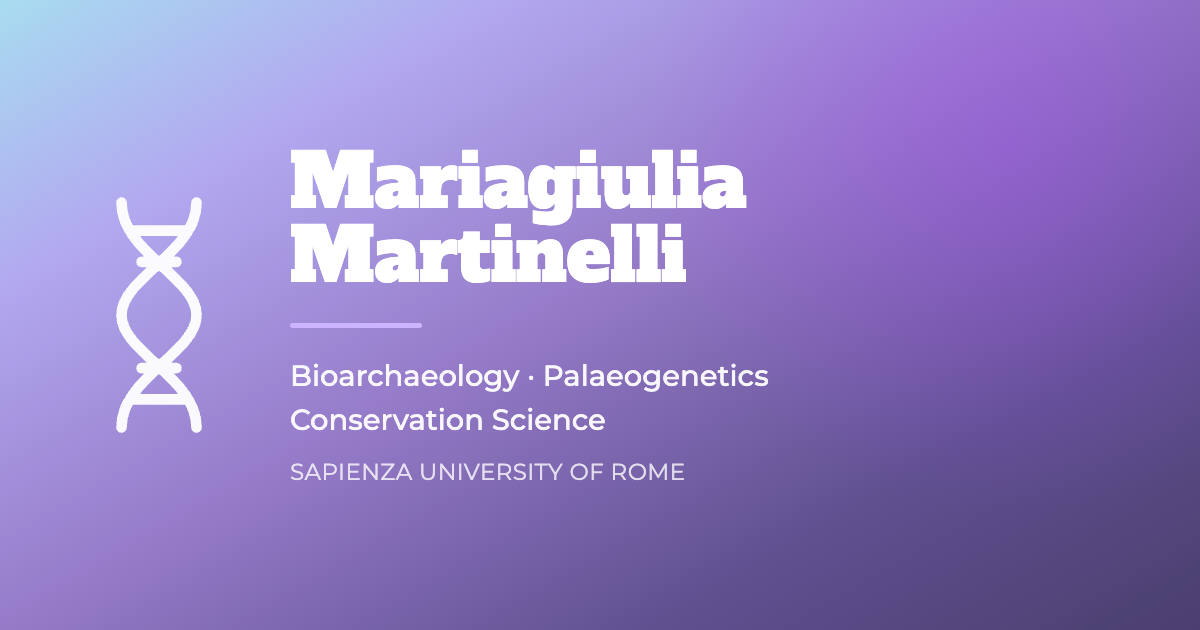
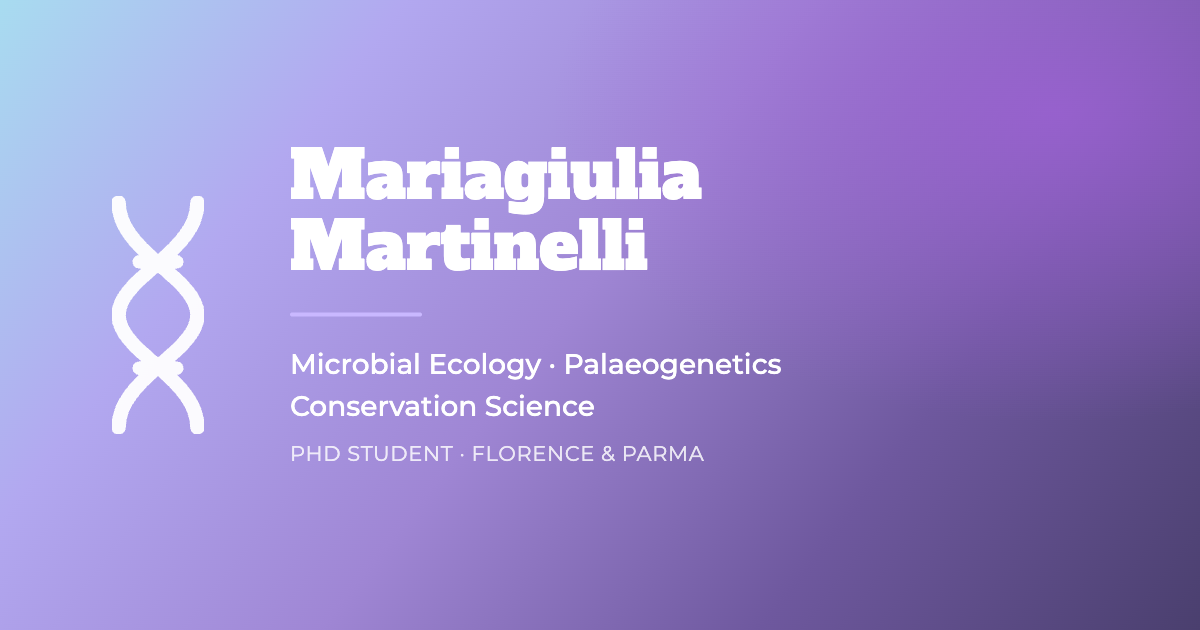
Lead the tagline with microbial ecology
Footer, share-image alt text, web manifest and the share image itself now
read Microbial Ecology · Palaeogenetics · Conservation Science; the image
also drops Sapienza for the PhD at Florence and Parma.

Changed region(s): [[0.0, 0.3016, 0.6475, 1.0], [0.2158, 0.2111, 0.6475, 0.4524], [0.1542, 0.4524, 0.185, 0.5429]]

diff --git a/education.html b/education.html
@@ -22,12 +22,12 @@
 <meta property="og:image" content="https://mariagiuliamartinelli.github.io/og-image.png">
 <meta property="og:image:width" content="1200">
 <meta property="og:image:height" content="630">
-<meta property="og:image:alt" content="Mariagiulia Martinelli — bioarchaeology, palaeogenetics and conservation science">
+<meta property="og:image:alt" content="Mariagiulia Martinelli — microbial ecology, palaeogenetics and conservation science">
 <meta name="twitter:card" content="summary_large_image">
 <meta name="twitter:title" content="Education · Mariagiulia Martinelli">
 <meta name="twitter:description" content="Education of Mariagiulia Martinelli: PhD at the Universities of Florence and Parma, LM-11 and L-43 degrees at Sapienza, Erasmus+ at Stockholm University, conferences and workshops.">
 <meta name="twitter:image" content="https://mariagiuliamartinelli.github.io/og-image.png">
-<link rel="stylesheet" href="css/style.css?v=37">
+<link rel="stylesheet" href="css/style.css?v=38">
 </head>
 <body class="subpage">
 
@@ -190,7 +190,7 @@
           <svg class="footer-mark" aria-hidden="true"><use href="#helix"/></svg>
           <span>Mariagiulia<br>Martinelli</span>
         </span>
-        <p class="footer-sub" data-i18n-html="footer.sub">Bioarchaeology · Palaeogenetics<br>Conservation Science<br>PhD student, Universities of Florence &amp; Parma</p>
+        <p class="footer-sub" data-i18n-html="footer.sub">Microbial Ecology · Palaeogenetics<br>Conservation Science<br>PhD student, Universities of Florence &amp; Parma</p>
       </div>
       <div>
         <h3 class="footer-title" data-i18n="footer.title">Need to reach me?</h3>
@@ -210,10 +210,10 @@
   </div>
 </footer>
 
-<script src="js/i18n.js?v=37"></script>
+<script src="js/i18n.js?v=38"></script>
 <script src="https://cdnjs.cloudflare.com/ajax/libs/gsap/3.12.5/gsap.min.js"></script>
 <script src="https://cdnjs.cloudflare.com/ajax/libs/gsap/3.12.5/ScrollTrigger.min.js"></script>
 <script src="https://cdnjs.cloudflare.com/ajax/libs/gsap/3.12.5/ScrollToPlugin.min.js"></script>
-<script src="js/main.js?v=37"></script>
+<script src="js/main.js?v=38"></script>
 </body>
 </html>

diff --git a/index.html b/index.html
@@ -22,12 +22,12 @@
 <meta property="og:image" content="https://mariagiuliamartinelli.github.io/og-image.png">
 <meta property="og:image:width" content="1200">
 <meta property="og:image:height" content="630">
-<meta property="og:image:alt" content="Mariagiulia Martinelli — bioarchaeology, palaeogenetics and conservation science">
+<meta property="og:image:alt" content="Mariagiulia Martinelli — microbial ecology, palaeogenetics and conservation science">
 <meta name="twitter:card" content="summary_large_image">
 <meta name="twitter:title" content="Mariagiulia Martinelli · From Ancient Remains to Alpine Soils">
 <meta name="twitter:description" content="Mariagiulia Martinelli, PhD student at the Universities of Florence and Parma: microorganisms of alpine plants and soils, palaeogenetics and conservation science.">
 <meta name="twitter:image" content="https://mariagiuliamartinelli.github.io/og-image.png">
-<link rel="stylesheet" href="css/style.css?v=37">
+<link rel="stylesheet" href="css/style.css?v=38">
 </head>
 <body>
 
@@ -198,7 +198,7 @@
           <svg class="footer-mark" aria-hidden="true"><use href="#helix"/></svg>
           <span>Mariagiulia<br>Martinelli</span>
         </span>
-        <p class="footer-sub" data-i18n-html="footer.sub">Bioarchaeology · Palaeogenetics<br>Conservation Science<br>PhD student, Universities of Florence &amp; Parma</p>
+        <p class="footer-sub" data-i18n-html="footer.sub">Microbial Ecology · Palaeogenetics<br>Conservation Science<br>PhD student, Universities of Florence &amp; Parma</p>
       </div>
       <div>
         <h3 class="footer-title" data-i18n="footer.title">Need to reach me?</h3>
@@ -218,10 +218,10 @@
   </div>
 </footer>
 
-<script src="js/i18n.js?v=37"></script>
+<script src="js/i18n.js?v=38"></script>
 <script src="https://cdnjs.cloudflare.com/ajax/libs/gsap/3.12.5/gsap.min.js"></script>
 <script src="https://cdnjs.cloudflare.com/ajax/libs/gsap/3.12.5/ScrollTrigger.min.js"></script>
 <script src="https://cdnjs.cloudflare.com/ajax/libs/gsap/3.12.5/ScrollToPlugin.min.js"></script>
-<script src="js/main.js?v=37"></script>
+<script src="js/main.js?v=38"></script>
 </body>
 </html>

diff --git a/research.html b/research.html
@@ -22,12 +22,12 @@
 <meta property="og:image" content="https://mariagiuliamartinelli.github.io/og-image.png">
 <meta property="og:image:width" content="1200">
 <meta property="og:image:height" content="630">
-<meta property="og:image:alt" content="Mariagiulia Martinelli — bioarchaeology, palaeogenetics and conservation science">
+<meta property="og:image:alt" content="Mariagiulia Martinelli — microbial ecology, palaeogenetics and conservation science">
 <meta name="twitter:card" content="summary_large_image">
 <meta name="twitter:title" content="Research Experience · Mariagiulia Martinelli">
 <meta name="twitter:description" content="Research placements of Mariagiulia Martinelli: Centre for Palaeogenetics, Tusculum, ENEA Casaccia and Sapienza laboratories.">
 <meta name="twitter:image" content="https://mariagiuliamartinelli.github.io/og-image.png">
-<link rel="stylesheet" href="css/style.css?v=37">
+<link rel="stylesheet" href="css/style.css?v=38">
 </head>
 <body class="subpage">
 
@@ -182,7 +182,7 @@
           <svg class="footer-mark" aria-hidden="true"><use href="#helix"/></svg>
           <span>Mariagiulia<br>Martinelli</span>
         </span>
-        <p class="footer-sub" data-i18n-html="footer.sub">Bioarchaeology · Palaeogenetics<br>Conservation Science<br>PhD student, Universities of Florence &amp; Parma</p>
+        <p class="footer-sub" data-i18n-html="footer.sub">Microbial Ecology · Palaeogenetics<br>Conservation Science<br>PhD student, Universities of Florence &amp; Parma</p>
       </div>
       <div>
         <h3 class="footer-title" data-i18n="footer.title">Need to reach me?</h3>
@@ -202,10 +202,10 @@
   </div>
 </footer>
 
-<script src="js/i18n.js?v=37"></script>
+<script src="js/i18n.js?v=38"></script>
 <script src="https://cdnjs.cloudflare.com/ajax/libs/gsap/3.12.5/gsap.min.js"></script>
 <script src="https://cdnjs.cloudflare.com/ajax/libs/gsap/3.12.5/ScrollTrigger.min.js"></script>
 <script src="https://cdnjs.cloudflare.com/ajax/libs/gsap/3.12.5/ScrollToPlugin.min.js"></script>
-<script src="js/main.js?v=37"></script>
+<script src="js/main.js?v=38"></script>
 </body>
 </html>

diff --git a/projects.html b/projects.html
@@ -22,12 +22,12 @@
 <meta property="og:image" content="https://mariagiuliamartinelli.github.io/og-image.png">
 <meta property="og:image:width" content="1200">
 <meta property="og:image:height" content="630">
-<meta property="og:image:alt" content="Mariagiulia Martinelli — bioarchaeology, palaeogenetics and conservation science">
+<meta property="og:image:alt" content="Mariagiulia Martinelli — microbial ecology, palaeogenetics and conservation science">
 <meta name="twitter:card" content="summary_large_image">
 <meta name="twitter:title" content="Open Source · Mariagiulia Martinelli">
 <meta name="twitter:description" content="Open source pipelines by Mariagiulia Martinelli: Etruscan-Analysis, systematic review framework, kraken2 comparison and more.">
 <meta name="twitter:image" content="https://mariagiuliamartinelli.github.io/og-image.png">
-<link rel="stylesheet" href="css/style.css?v=37">
+<link rel="stylesheet" href="css/style.css?v=38">
 </head>
 <body class="subpage">
 
@@ -150,7 +150,7 @@
           <svg class="footer-mark" aria-hidden="true"><use href="#helix"/></svg>
           <span>Mariagiulia<br>Martinelli</span>
         </span>
-        <p class="footer-sub" data-i18n-html="footer.sub">Bioarchaeology · Palaeogenetics<br>Conservation Science<br>PhD student, Universities of Florence &amp; Parma</p>
+        <p class="footer-sub" data-i18n-html="footer.sub">Microbial Ecology · Palaeogenetics<br>Conservation Science<br>PhD student, Universities of Florence &amp; Parma</p>
       </div>
       <div>
         <h3 class="footer-title" data-i18n="footer.title">Need to reach me?</h3>
@@ -170,10 +170,10 @@
   </div>
 </footer>
 
-<script src="js/i18n.js?v=37"></script>
+<script src="js/i18n.js?v=38"></script>
 <script src="https://cdnjs.cloudflare.com/ajax/libs/gsap/3.12.5/gsap.min.js"></script>
 <script src="https://cdnjs.cloudflare.com/ajax/libs/gsap/3.12.5/ScrollTrigger.min.js"></script>
 <script src="https://cdnjs.cloudflare.com/ajax/libs/gsap/3.12.5/ScrollToPlugin.min.js"></script>
-<script src="js/main.js?v=37"></script>
+<script src="js/main.js?v=38"></script>
 </body>
 </html>

diff --git a/publications.html b/publications.html
@@ -22,12 +22,12 @@
 <meta property="og:image" content="https://mariagiuliamartinelli.github.io/og-image.png">
 <meta property="og:image:width" content="1200">
 <meta property="og:image:height" content="630">
-<meta property="og:image:alt" content="Mariagiulia Martinelli — bioarchaeology, palaeogenetics and conservation science">
+<meta property="og:image:alt" content="Mariagiulia Martinelli — microbial ecology, palaeogenetics and conservation science">
 <meta name="twitter:card" content="summary_large_image">
 <meta name="twitter:title" content="Publications &amp; Talks · Mariagiulia Martinelli">
 <meta name="twitter:description" content="Publications, manuscripts in preparation and oral contributions by Mariagiulia Martinelli.">
 <meta name="twitter:image" content="https://mariagiuliamartinelli.github.io/og-image.png">
-<link rel="stylesheet" href="css/style.css?v=37">
+<link rel="stylesheet" href="css/style.css?v=38">
 </head>
 <body class="subpage">
 
@@ -153,7 +153,7 @@
           <svg class="footer-mark" aria-hidden="true"><use href="#helix"/></svg>
           <span>Mariagiulia<br>Martinelli</span>
         </span>
-        <p class="footer-sub" data-i18n-html="footer.sub">Bioarchaeology · Palaeogenetics<br>Conservation Science<br>PhD student, Universities of Florence &amp; Parma</p>
+        <p class="footer-sub" data-i18n-html="footer.sub">Microbial Ecology · Palaeogenetics<br>Conservation Science<br>PhD student, Universities of Florence &amp; Parma</p>
       </div>
       <div>
         <h3 class="footer-title" data-i18n="footer.title">Need to reach me?</h3>
@@ -173,10 +173,10 @@
   </div>
 </footer>
 
-<script src="js/i18n.js?v=37"></script>
+<script src="js/i18n.js?v=38"></script>
 <script src="https://cdnjs.cloudflare.com/ajax/libs/gsap/3.12.5/gsap.min.js"></script>
 <script src="https://cdnjs.cloudflare.com/ajax/libs/gsap/3.12.5/ScrollTrigger.min.js"></script>
 <script src="https://cdnjs.cloudflare.com/ajax/libs/gsap/3.12.5/ScrollToPlugin.min.js"></script>
-<script src="js/main.js?v=37"></script>
+<script src="js/main.js?v=38"></script>
 </body>
 </html>

diff --git a/cv.html b/cv.html
@@ -22,12 +22,12 @@
 <meta property="og:image" content="https://mariagiuliamartinelli.github.io/og-image.png">
 <meta property="og:image:width" content="1200">
 <meta property="og:image:height" content="630">
-<meta property="og:image:alt" content="Mariagiulia Martinelli — bioarchaeology, palaeogenetics and conservation science">
+<meta property="og:image:alt" content="Mariagiulia Martinelli — microbial ecology, palaeogenetics and conservation science">
 <meta name="twitter:card" content="summary_large_image">
 <meta name="twitter:title" content="Awards &amp; Skills · Mariagiulia Martinelli">
 <meta name="twitter:description" content="Awards, skills, work experience and certifications of Mariagiulia Martinelli.">
 <meta name="twitter:image" content="https://mariagiuliamartinelli.github.io/og-image.png">
-<link rel="stylesheet" href="css/style.css?v=37">
+<link rel="stylesheet" href="css/style.css?v=38">
 </head>
 <body class="subpage">
 
@@ -205,7 +205,7 @@
           <svg class="footer-mark" aria-hidden="true"><use href="#helix"/></svg>
           <span>Mariagiulia<br>Martinelli</span>
         </span>
-        <p class="footer-sub" data-i18n-html="footer.sub">Bioarchaeology · Palaeogenetics<br>Conservation Science<br>PhD student, Universities of Florence &amp; Parma</p>
+        <p class="footer-sub" data-i18n-html="footer.sub">Microbial Ecology · Palaeogenetics<br>Conservation Science<br>PhD student, Universities of Florence &amp; Parma</p>
       </div>
       <div>
         <h3 class="footer-title" data-i18n="footer.title">Need to reach me?</h3>
@@ -225,10 +225,10 @@
   </div>
 </footer>
 
-<script src="js/i18n.js?v=37"></script>
+<script src="js/i18n.js?v=38"></script>
 <script src="https://cdnjs.cloudflare.com/ajax/libs/gsap/3.12.5/gsap.min.js"></script>
 <script src="https://cdnjs.cloudflare.com/ajax/libs/gsap/3.12.5/ScrollTrigger.min.js"></script>
 <script src="https://cdnjs.cloudflare.com/ajax/libs/gsap/3.12.5/ScrollToPlugin.min.js"></script>
-<script src="js/main.js?v=37"></script>
+<script src="js/main.js?v=38"></script>
 </body>
 </html>

diff --git a/404.html b/404.html
@@ -16,7 +16,7 @@
 <!-- every path here is root-absolute on purpose: GitHub Pages serves this file
      for any missing URL, including deep ones like /a/b/c, and relative paths
      would resolve against that fake directory and 404 in turn -->
-<link rel="stylesheet" href="/css/style.css?v=37">
+<link rel="stylesheet" href="/css/style.css?v=38">
 </head>
 <body class="subpage">
 
@@ -99,7 +99,7 @@
           <svg class="footer-mark" aria-hidden="true"><use href="#helix"/></svg>
           <span>Mariagiulia<br>Martinelli</span>
         </span>
-        <p class="footer-sub" data-i18n-html="footer.sub">Bioarchaeology · Palaeogenetics<br>Conservation Science<br>PhD student, Universities of Florence &amp; Parma</p>
+        <p class="footer-sub" data-i18n-html="footer.sub">Microbial Ecology · Palaeogenetics<br>Conservation Science<br>PhD student, Universities of Florence &amp; Parma</p>
       </div>
       <div>
         <h3 class="footer-title" data-i18n="footer.title">Need to reach me?</h3>
@@ -119,10 +119,10 @@
   </div>
 </footer>
 
-<script src="/js/i18n.js?v=37"></script>
+<script src="/js/i18n.js?v=38"></script>
 <script src="https://cdnjs.cloudflare.com/ajax/libs/gsap/3.12.5/gsap.min.js"></script>
 <script src="https://cdnjs.cloudflare.com/ajax/libs/gsap/3.12.5/ScrollTrigger.min.js"></script>
 <script src="https://cdnjs.cloudflare.com/ajax/libs/gsap/3.12.5/ScrollToPlugin.min.js"></script>
-<script src="/js/main.js?v=37"></script>
+<script src="/js/main.js?v=38"></script>
 </body>
 </html>

diff --git a/js/i18n.js b/js/i18n.js
@@ -46,7 +46,7 @@
       'nav.startHere':     'Comincia da qui',
       'nav.orGoTo':        'Oppure vai a',
       'nav.home':          'Home',
-      'footer.sub':      'Bioarcheologia · Paleogenetica<br>Scienze della conservazione<br>Dottoranda, Università di Firenze e di Parma',
+      'footer.sub':      'Ecologia microbica · Paleogenetica<br>Scienze della conservazione<br>Dottoranda, Università di Firenze e di Parma',
       'footer.title':    'Vuoi contattarmi?',
       'footer.academic': 'Accademica:',
 

diff --git a/CLAUDE.md b/CLAUDE.md
@@ -59,7 +59,7 @@ poi apri `http://localhost:8899/index.html?qualcosa` — la query finale salta l
 cache in modo garantito, senza scorciatoie da tastiera.
 
 **Dopo ogni modifica a `css/style.css`, `js/main.js` o `js/i18n.js`, alza il
-cache-buster in tutte e sette le pagine.** Ora è a `v=37`.
+cache-buster in tutte e sette le pagine.** Ora è a `v=38`.
 
 ```bash
 python3 - <<'EOF'
